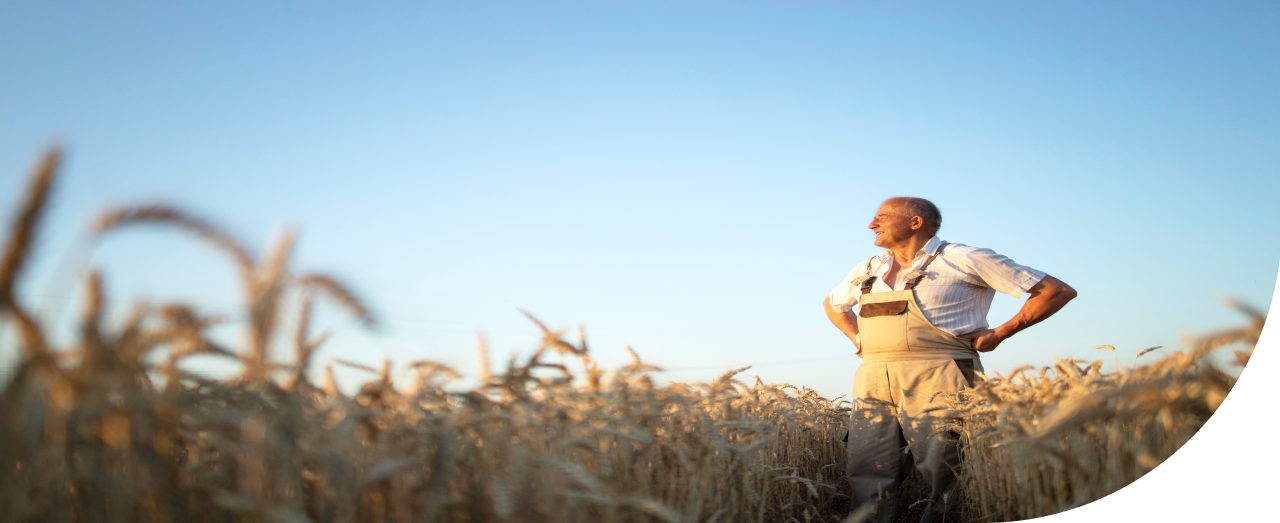
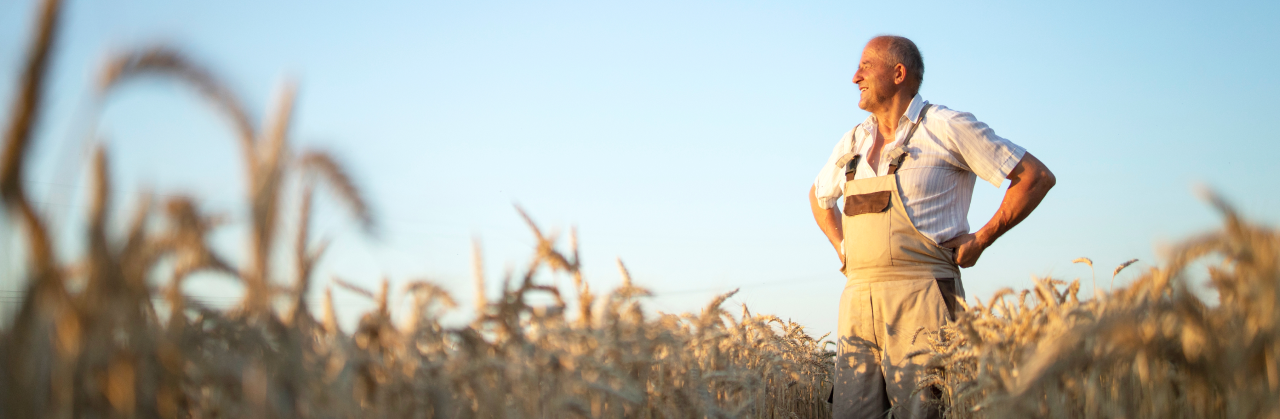
Estruturação da pagina inicial

diff --git a/index.html b/index.html
@@ -7,8 +7,7 @@
     <link rel="preconnect" href="https://fonts.googleapis.com">
     <link href="https://fonts.googleapis.com/css2?family=Montserrat&display=swap" rel="stylesheet">
     <link rel="stylesheet" href="./css/whats.css">
-    <link rel="stylesheet" href="./css/carousel.css">
-    <link rel="shortcut icon" href="" type="image/x-icon">
+    <link rel="stylesheet" href="./css/home.css">
     <title>AgroHouse</title>
 </head>
 
@@ -18,9 +17,9 @@
   <!--Banner, logo e icones-->
     <header>
       <div id="cabecalho">
-        <img src="" alt="" id="banner">
-        <img src="./img/pag-home/logo (2).png" alt="" id="logo">
-        <a href="#"><img src="./img/pag-home/usuario.png" alt="" id="usuario"></a>
+        <img src="./img/pag-home/banner (2).png" alt="" id="banner">
+        <img src="" alt="" id="logo">
+        <a href="#"><img src="" alt="" id="usuario"></a>
       </div>
     </header>
 
@@ -33,6 +32,7 @@
 
         <!--Historia-->
         <section id="nossa-historia">
+          <img src="./img/pag-home/img-historia.jpeg" alt="">
           <h2 id="historia">Nossa História</h2>
           <p id="paragrafo">Lorem ipsum dolor sit amet, consectetur adipiscing elit, sed do eiusmod tempor incididunt ut labore et dolore magna aliqua. Ut enim ad minim veniam, quis nostrud exercitation ullamco laboris nisi ut aliquip ex ea commodo consequat. Duis aute irure dolor in reprehenderit in voluptate velit esse cillum dolore eu fugiat nulla pariatur. Excepteur sint occaecat cupidatat non proident, sunt in culpa qui officia deserunt mollit anim id est laborum.</p>
           <p id="paragrafo">Lorem ipsum dolor sit amet, consectetur adipiscing elit, sed do eiusmod tempor incididunt ut labore et dolore magna aliqua. Ut enim ad minim veniam, quis nostrud exercitation ullamco laboris nisi ut aliquip ex ea commodo consequat. Duis aute irure dolor in reprehenderit in voluptate velit esse cillum dolore eu fugiat nulla pariatur. Excepteur sint occaecat cupidatat non proident, sunt in culpa qui officia deserunt mollit anim id est laborum.</p>
@@ -46,7 +46,6 @@
 
         <div class="mySlides fade">
           <img src="./img/pag-home/carousel1.png" style="width:50%">
-          <div class="titulo">Voluntário</div>
           <div class="text-marrom">Ajude Nos a ajudar</div>
           <div id="conteudo-marrom">Logo após os alimentos serem selecionados e entregues acabam sobrando muitos alimentos em nossas reversa, assim coletamos estes produtos e novamente passamos por uma seleção doamos para pessoas carentes e comunidades necessitadas.
           </div>
@@ -64,7 +63,7 @@
 
         <div class="mySlides fade">
           <img src="./img/pag-home/carousel3.png" style="width:50%">
-          <div class="titulo">Voluntário</div>
+          <div class="titulo">Distribuidor</div>
           <div class="text">Fornecimento alimentar</div>
           <div id="conteudo-azul-fraco">Com mais de 45 variedades de alimentos naturais são distribuídos diariamente para projetos sociais, assim ajudando mais de 63 instituições, 40 orfanatos e 34 projetos sociais, com mais de 200 pessoas que vivem e moram nestes locais.
           </div>
@@ -73,7 +72,7 @@
 
         <div class="mySlides fade">
           <img src="./img/pag-home/carousel4.png" style="width:50%">
-          <div class="titulo">Voluntário</div>
+          <div class="titulo">Produtor</div>
           <div class="text">Nossas inspeções</div>
           <div id="conteudo-verde">Para garantir um melhor produto e 100% natural não utilizamos agrotóxicos em nossas plantações, por conta disso contratamos mais de 30 produtores que fazem a especialização de nossos alimentos garantindo uma melhor qualidade de produtos.
           </div>
@@ -82,7 +81,7 @@
 
         <div class="mySlides fade">
           <img src="./img/pag-home/carousel5.png" style="width:50%">
-          <div class="titulo">Voluntário</div>
+          <div class="titulo">Coletor</div>
           <div class="text">Colheitas</div>
           <div id="conteudo-amarelo">Nossas colheitas são realizadas pelos nossos coletores somente alimentos da estação do ana assim garantido um produto fresco e muito saborosos, Produtores realizam a separação de nossos alimento colhidos, assim garantindo tempo de qualidade do alimento.
           </div>
@@ -99,35 +98,35 @@
             <h2 id="card-titulo">Seja um colaborador de nossos trabalho e Faça a diferença!</h2>
 
             <div class="card">
-              <img src="" alt="" id="img-produtor">
+              <img src="./img/pag-home/card-produtor.png" alt="" id="img-produtor">
               <h1 id="titulo-produtor">Produtor</h1>
               <p id="texto-produtor">Sabedoria em alimentos no geral, conhecer as melhores estações e como se cultivar alimentos</p>
               <p><button id="cadastro"><a href="cadastro-produtores.html">Cadastra-se</a></button></p>
             </div>
 
             <div class="card-distribuidor">
-              <img src="" alt="" id="img-distribuidor">
+              <img src="./img/pag-home/card-distribuidor.png" alt="" id="img-distribuidor">
               <h1 id="titulo-distribuidor">Distribuidor</h1>
               <p id="texto-distribuidor">Os distribuidores oferecem os alimentos recolhidos para pessoas carentes.</p>
               <p><button id="cadastro-distribuidor"><a href="cadastro-distribuicao.html">Cadastra-se</a></button></p>
             </div>
             
             <div class="card-coletor">
-              <img src="" alt="" id="img-coletor">
+              <img src="./img/pag-home/card-coletor.png" alt="" id="img-coletor">
               <h1 id="titulo-coletor">Coletor</h1>
               <p id="texto-coletor">Os coletores selecionam os nossos alimento para que possams ter alimentos de qualidade.</p>
               <p><button id="cadastro-coletor"><a href="cadastro-coletor.html">Cadastra-se</a></button></p>
             </div>
 
             <div class="card-voluntario">
-              <img src="" alt="" id="img-voluntario">
+              <img src="./img/pag-home/card-voluntario.png" alt="" id="img-voluntario">
               <h1 id="titulo-voluntario">Voluntário</h1>
               <p id="texto-voluntario">Se você sonha em ajudar, venha para AgroHouse, assim estará ajudando nossas comunidades mais proximas e se tornará um contribuidor no Projeto.</p>
               <p><button id="cadastro-voluntario"><a href="cadastro-voluntario.html">Cadastra-se</a></button></p>
             </div>
 
             <div class="card-login">
-              <img src="" alt="" id="img-login">
+              <img src="./img/pag-home/card-login.png" alt="" id="img-login">
               <h1 id="titulo-login">Doações</h1>
               <p id="texto-login">Aqui nós disponibilizamos para vocês uma ótima qualidade de frutas e verduras.</p>
               <p><button id="cadastro-login"><a href="login.html">Cadastra-se</a></button></p>

diff --git a/css/whats.css b/css/whats.css
@@ -1,3 +1,4 @@
+
 .icon{
     background-attachment: scroll;
 }
@@ -9,4 +10,4 @@
     top: 92%;
     right: 1%;
     z-index: 10000;
-}  
+} 

diff --git a/css/home.css b/css/home.css
@@ -1,0 +1,6 @@
+#banner{
+    position: relative;
+    left: -7px;
+    top: -9px;
+    width: 1348px;
+}
